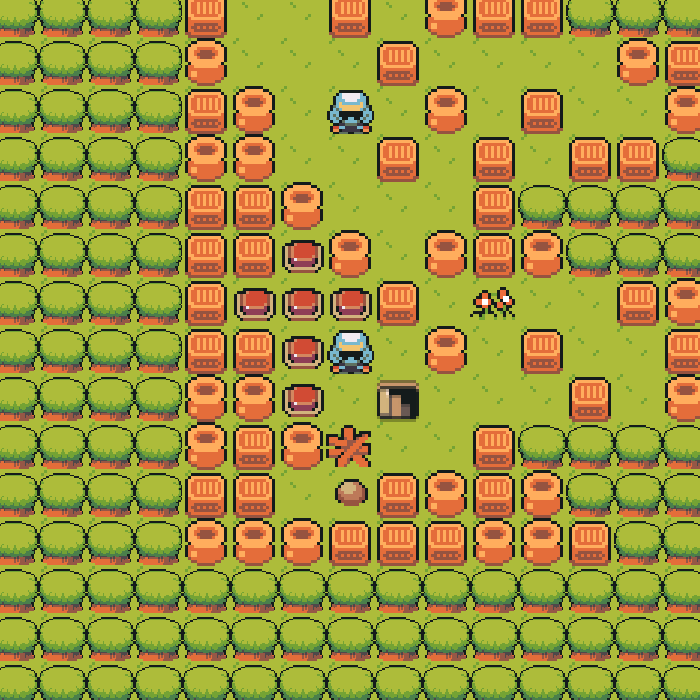
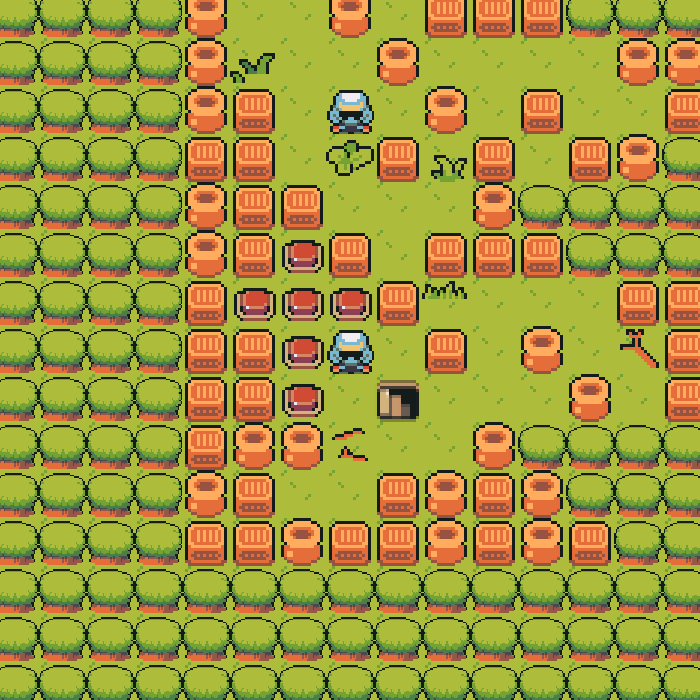
time changes

diff --git a/game.py b/game.py
@@ -83,8 +83,8 @@ class Game:
         spikesEventType = enemyEventType + 1
         shurikenEventType = spikesEventType + 1
         pygame.time.set_timer(enemyEventType, 500)
-        pygame.time.set_timer(spikesEventType, 500)
-        pygame.time.set_timer(shurikenEventType, 200)
+        pygame.time.set_timer(spikesEventType, 300)
+        pygame.time.set_timer(shurikenEventType, 275)
         self.level, self.player, self.enemies, self.coordSpikes, self.level_x, self.level_y = \
             functions.generate_level(level_list, self, False)
         # изменяем ракурс камеры
